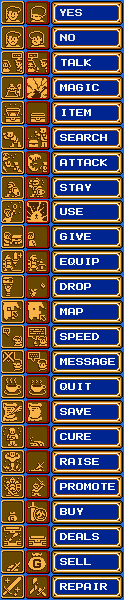
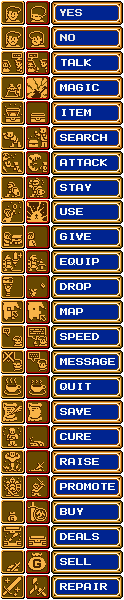
add basic command menu display

Changed region(s): [[0.0, 0.0, 1.0, 1.0]]

diff --git a/State/BattleActionMenu.cs b/State/BattleActionMenu.cs
@@ -1,4 +1,7 @@
+using SomberInertia.Enums;
+using SomberInertia.Graphics;
 using Raylib_cs;
+using System.Numerics;
 
 using SomberInertia.Core;
 
@@ -9,6 +12,30 @@ public class BattleActionMenu : IGameState
     private Game _game { get; set; }
     private Unit _currentUnit { get; set; }
 
+    // positions: up, left, right, down
+    private CommandIcon[] _icons = new CommandIcon[4]
+    {
+        new CommandIcon(CommandIconType.Attack),
+        new CommandIcon(CommandIconType.Magic),
+        new CommandIcon(CommandIconType.Item),
+        new CommandIcon(CommandIconType.Stay)
+    };
+    private Vector2[] _positions = new Vector2[4]
+    {
+        new Vector2((GameStateManager.CurrentWidth / 2) + 24, ((3 * GameStateManager.CurrentHeight) / 4) - (24 * (int)GameStateManager.CurrentScale)),
+        new Vector2((GameStateManager.CurrentWidth / 2) - (16 * (int)GameStateManager.CurrentScale), ((3 * GameStateManager.CurrentHeight) / 4)),
+        new Vector2((GameStateManager.CurrentWidth / 2) + (32 * (int)GameStateManager.CurrentScale), ((3 * GameStateManager.CurrentHeight) / 4)),
+        new Vector2((GameStateManager.CurrentWidth / 2) + 24, ((3 * GameStateManager.CurrentHeight) / 4) + (24 * (int)GameStateManager.CurrentScale)),
+    };
+    private enum _selectedCommandEnum
+    {
+        Attack = 0,
+        Magic,
+        Item,
+        Stay
+    }
+    private int _selectedCommand { get; set; } = (int)_selectedCommandEnum.Attack;
+
     public BattleActionMenu(Game game)
     {
         _game = game;
@@ -17,7 +44,7 @@ public class BattleActionMenu : IGameState
 
     public void Enter()
     {
-        _game.Grid.RangeTint.Reset();
+        // _game.Grid.RangeTint.Reset();
     }
     
     public void Exit()
@@ -29,20 +56,30 @@ public class BattleActionMenu : IGameState
     {
         // Arrow keys
         if (Raylib.IsKeyPressed(KeyboardKey.Up))
-            _game.Grid.MoveUnitInDirection(_currentUnit, Direction.Up);
+            SetSelectedCommand((int)_selectedCommandEnum.Attack);
 
         if (Raylib.IsKeyPressed(KeyboardKey.Down))
-            _game.Grid.MoveUnitInDirection(_currentUnit, Direction.Down);
+            SetSelectedCommand((int)_selectedCommandEnum.Stay);
 
         if (Raylib.IsKeyPressed(KeyboardKey.Left))
-            _game.Grid.MoveUnitInDirection(_currentUnit, Direction.Left);
+            SetSelectedCommand((int)_selectedCommandEnum.Magic);
 
         if (Raylib.IsKeyPressed(KeyboardKey.Right))
-            _game.Grid.MoveUnitInDirection(_currentUnit, Direction.Right);
+            SetSelectedCommand((int)_selectedCommandEnum.Item);
+    }
+
+    private void SetSelectedCommand(int command)
+    {
+        if (_selectedCommand != command)
+        {
+            _icons[_selectedCommand].Reset();
+            _selectedCommand = command;
+        }
     }
 
     public void Update()
     {
+        _icons[_selectedCommand].Update();
         _game.Grid.RangeTint.Tick();
     }
 
@@ -51,5 +88,10 @@ public class BattleActionMenu : IGameState
         _game.Grid.DrawBackground(scale);
         _game.Grid.DrawWeaponAttackRange(scale);
         _game.Grid.DrawUnits(_game.Units, scale);
+
+        for (int i = 0; i < _icons.Count(); i++)
+        {
+            _icons[i].Draw(_positions[i], scale);
+        }
     }
 }

diff --git a/Graphics/Sprite.cs b/Graphics/Sprite.cs
@@ -13,12 +13,29 @@ public class Sprite
     private int _currentFrame = 0;
     private int _currentRow = 0;
 
+    private int _offsetWidth { get; set; }
+    private int _offsetHeight { get; set; }
+
     public Sprite(string path, int frameWidth, int frameHeight)
     {
         Texture = SpriteManager.Load(path);
         FrameWidth = frameWidth;
         FrameHeight = frameHeight;
+
+        _offsetWidth = 0;
+        _offsetHeight = 0;
     }
+
+    public Sprite(string path, int frameWidth, int frameHeight, int offsetWidth, int offsetHeight)
+    {
+        Texture = SpriteManager.Load(path);
+        FrameWidth = frameWidth;
+        FrameHeight = frameHeight;
+
+        _offsetWidth = offsetWidth;
+        _offsetHeight = offsetHeight;
+    }
+
 
     public void SetFrame(int frame)
     {
@@ -37,8 +54,8 @@ public class Sprite
     public void Draw(Vector2 position, float scale)
     {
         Rectangle source = new Rectangle(
-            x:      _currentFrame * FrameWidth,
-            y:      _currentRow * FrameHeight,
+            x:      _currentFrame * FrameWidth + _offsetWidth,
+            y:      _currentRow * FrameHeight + _offsetHeight * _currentRow,
             width:  FrameWidth,
             height: FrameHeight
         );

diff --git a/Graphics/CommandIcon.cs b/Graphics/CommandIcon.cs
@@ -8,15 +8,16 @@ namespace SomberInertia.Graphics;
 public class CommandIcon
 {
     public readonly Sprite Sprite;
-    private readonly Timer.CommandIcon Animator;     // Better name than "CommandIcon"
+    private readonly Timer.CommandIcon Animator;
 
     private const string SpriteSheetPath = "Assets/commands.png";
 
     public CommandIcon(CommandIconType type)      // Use enum instead of raw int
     {
+        int offset = (int)type;
         Sprite = new Sprite(SpriteSheetPath, 
-                           GameConstants.WORLD_MAP_SPRITE_SIZE, 
-                           GameConstants.WORLD_MAP_SPRITE_SIZE);
+                           GameConstants.WORLD_MAP_SPRITE_SIZE + 1, 
+                           GameConstants.WORLD_MAP_SPRITE_SIZE + 1);
 
         Animator = new Timer.CommandIcon(6);
         
@@ -34,5 +35,9 @@ public class CommandIcon
         Sprite.Draw(position, scale);
     }
 
-    public void Reset() => Animator.Reset();
+    public void Reset()
+    {
+        Animator.Reset();
+        Sprite.SetFrame(0);
+    }
 }

diff --git a/State/CalculateWeaponAttackRange.cs b/State/CalculateWeaponAttackRange.cs
@@ -18,7 +18,7 @@ public class CalculateWeaponAttackRange : IGameState
     public void Enter()
     {
         Logger.Debug("CalculateWeaponAttackRange::Enter(): called.");
-        _game.Grid.ResetAttackRangeCosts();
+        // _game.Grid.ResetAttackRangeCosts();
         _game.Grid.CalculateWeaponAttackRange(_currentUnit);
         GameStateManager.ChangeStateType(GameStateType.BattleActionMenu);
     }
